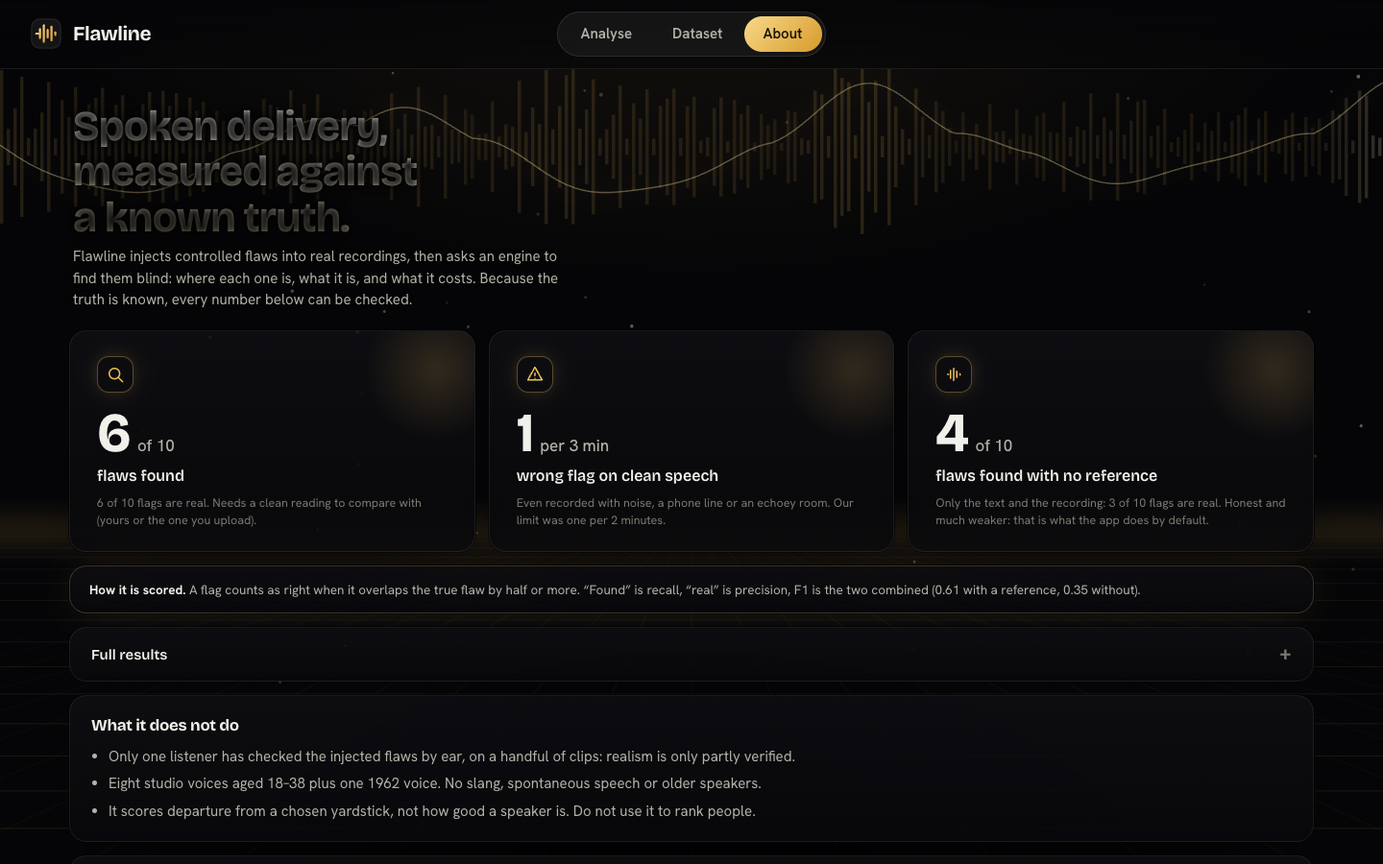
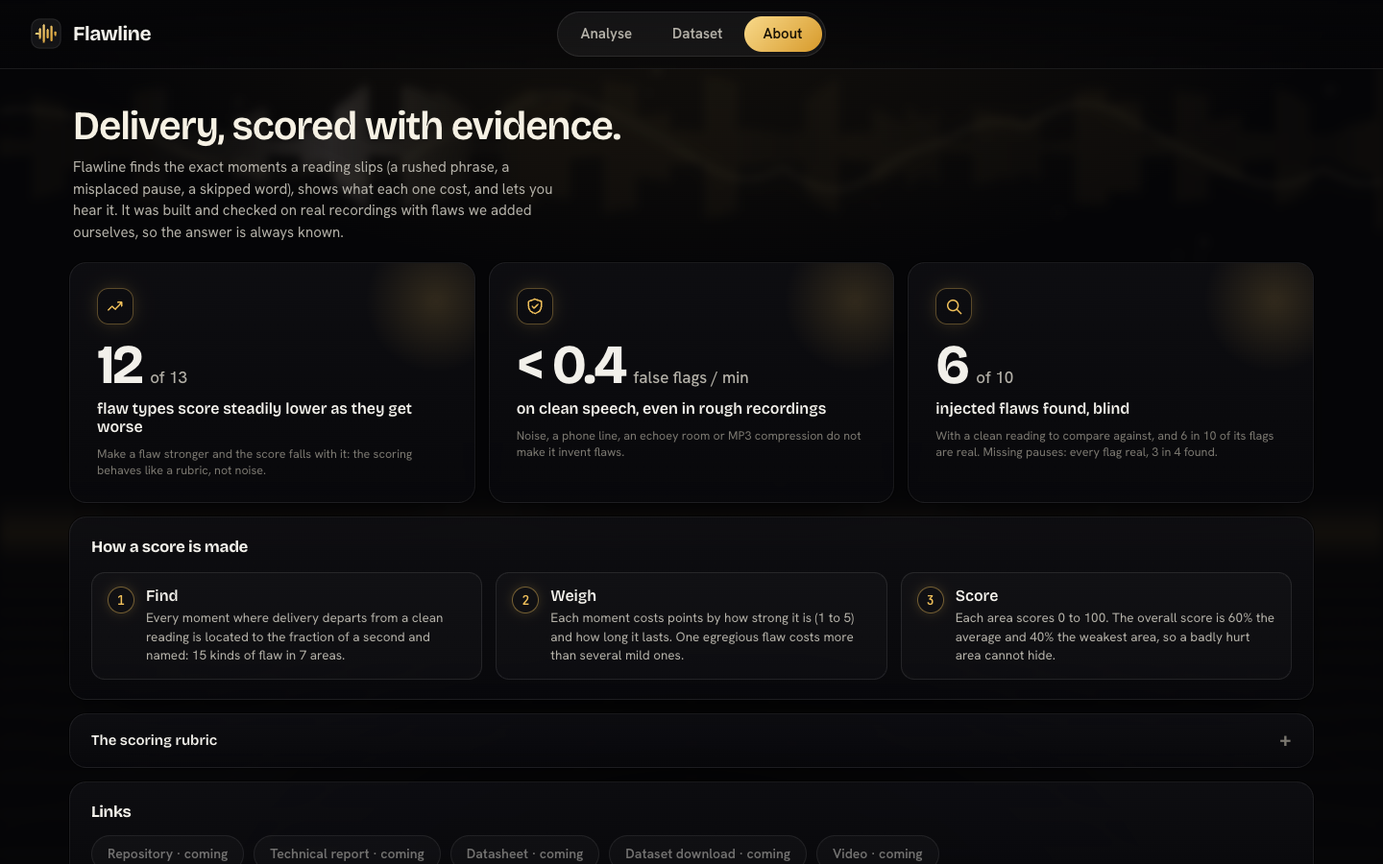
Home = upload + examples; clearer dataset copy; product-style About with rubric; reveal button to lab; blurred room on results

diff --git a/app/static/index.html b/app/static/index.html
@@ -29,6 +29,7 @@
 <!-- ================= ANALYSE ================= -->
 <section class="page on" id="p-analyse">
   <div class="stack">
+    <div class="homehead home-only"><h1>Hear where your delivery slips.</h1><p>Drop a recording of someone reading aloud. Flawline finds the moments that cost points and plays them back.</p></div>
     <div class="panel input-strip" id="strip">
       <label class="drop" id="drop" tabindex="0">
         <svg viewBox="0 0 24 24" fill="none" stroke="currentColor" stroke-width="1.8" stroke-linecap="round" stroke-linejoin="round"><path d="M12 15V4M7 8l5-5 5 5M4 15v3a3 3 0 0 0 3 3h10a3 3 0 0 0 3-3v-3"/></svg>
@@ -38,12 +39,13 @@
       <textarea class="text-in" id="transcript" rows="1" placeholder="Paste the text you read (optional). Without it, the engine uses what it hears."></textarea>
       <div class="go">
         <label class="ignore" title="Fillers like “um” and false starts stay on the timeline but cost no points."><input type="checkbox" id="nofl"><span>Ignore fillers and false starts</span></label>
+        <button class="btn ghost res-only" id="again" type="button">Start over</button>
         <button class="btn gold" id="run">Analyse</button>
       </div>
     </div>
-    <div class="presets" id="presets"><span class="eyebrow preset-label">Try one</span></div>
+    <div class="presets home-only" id="presets"><span class="eyebrow preset-label">Or try an example</span></div>
 
-    <div class="panel verdict" id="verdict">
+    <div class="panel verdict res-only" id="verdict">
       <div class="gauge">
         <svg viewBox="0 0 120 120"><circle class="track" cx="60" cy="60" r="52"/><circle class="kept" id="kept" cx="60" cy="60" r="52" stroke-dasharray="326.7" stroke-dashoffset="326.7"/><circle class="lost" id="lostarc" cx="60" cy="60" r="52" stroke-dasharray="0 326.7" stroke-dashoffset="0"/></svg>
         <div class="num"><b id="score">–</b><span id="band">score</span></div>
@@ -53,12 +55,12 @@
       <div class="veil" id="veil1"><div class="eq"><i></i><i></i><i></i><i></i><i></i></div><div><b id="veil-t">Listening…</b><div class="dim" id="veil-s">Aligning, measuring, scoring</div></div></div>
     </div>
 
-    <div class="panel tl-card" id="tlcard">
+    <div class="panel tl-card res-only" id="tlcard">
       <div class="tl-head">
         <h3>Timeline</h3>
         <div class="seg" id="lanesel" role="group" aria-label="What the second lane shows"><button data-k="pitch" class="on">Pitch</button><button data-k="level">Loudness</button><button data-k="rate">Speed</button></div>
         <button class="btn sm" id="playall">▶ Play all</button>
-        <button class="btn sm" id="reveal" hidden>Reveal what was injected</button>
+        <button class="btn sm labonly" id="reveal" hidden>Reveal what was injected</button>
         <div class="legend"><span data-tip="The shape of your recording over time. Taller means louder."><i style="background:var(--data)"></i>Waveform</span><span data-tip="Your own voice: how high or low it goes, how loud it is, or how fast you speak, depending on the lane chosen."><i style="background:var(--blue)"></i>You</span><span data-tip="Where your own delivery normally sits. Leaving the grey band is not a mistake by itself; the numbered moments below are what cost points."><i class="band"></i>Expected range</span><span id="lg-ref" data-tip="The same words from your reference reading, lined up with yours." hidden><i class="ref"></i>Reference</span></div>
       </div>
       <div class="canvas-wrap"><canvas id="tl" width="1200" height="256" aria-label="Waveform and a second lane, with numbered flagged moments. Click a number to select and play it."></canvas><div class="tip" id="tip"></div></div>
@@ -66,10 +68,10 @@
       <div class="veil" id="veil2"><div class="eq"><i></i><i></i><i></i><i></i><i></i></div></div>
     </div>
 
-    <div class="panel flaw" id="flaw"></div>
-    <div class="panel transcript" id="trpanel"><div class="eyebrow">Transcript</div><div class="words" id="words"></div></div>
+    <div class="panel flaw res-only" id="flaw"></div>
+    <div class="panel transcript res-only" id="trpanel"><div class="eyebrow">Transcript</div><div class="words" id="words"></div></div>
 
-    <details class="panel adv" id="adv">
+    <details class="panel adv res-only" id="adv">
       <summary>Advanced</summary>
       <div class="adv-body">
         <div class="field"><span class="lab">Reference reading (optional)</span>
@@ -96,19 +98,19 @@
 <!-- ================= DATASET ================= -->
 <section class="page" id="p-dataset">
   <div class="stack">
-    <div class="hero"><h1>Real voices, controlled flaws, known truth.</h1>
-      <p>We start from clean recordings of real speakers, then change one thing at a time: a rushed phrase, a misplaced pause, a skipped word. Because we made each change, we know exactly where it is.</p></div>
+    <div class="hero"><h1>Real voices with flaws we added on purpose.</h1>
+      <p>We start with clean recordings of real speakers, then change one thing at a time: speed up a phrase, add a pause in the wrong place, remove a word. Because we made every change ourselves, we know exactly where and how strong it is.</p></div>
     <div class="tiles" id="tiles"></div>
     <div class="cols2">
-      <div class="panel card"><h3>What we change</h3><div class="sub">Fifteen kinds of delivery flaw, in seven areas, each at five strengths from barely there to egregious.</div><div class="catlist" id="catlist"></div></div>
-      <div class="panel card"><h3>Hear a pair</h3><div class="sub" id="pair-sub">The same reading, clean and with one flaw.</div>
+      <div class="panel card"><h3>What we change</h3><div class="sub">The 15 kinds of delivery flaw we add, grouped into 7 areas. Each comes in 5 strengths, from barely noticeable to extreme.</div><div class="catlist" id="catlist"></div></div>
+      <div class="panel card"><h3>Hear a pair</h3><div class="sub" id="pair-sub">A few sample pairs of modifications: the original and the modified version.</div>
         <div class="pair"><div class="pairrow"><button class="play" id="pc" aria-label="Play the clean reading">▶</button><div><b>Clean reading</b><span id="pc-s"></span></div></div>
           <div class="pairrow fl"><button class="play" id="pf" aria-label="Play the flawed reading">▶</button><div><b id="pf-t">With a flaw</b><span id="pf-s"></span></div></div>
           <div style="display:flex;align-items:center;gap:12px"><button class="btn sm" id="pnext">Another pair</button><span class="dimmer" id="pn" style="font-size:12.5px"></span></div></div></div>
     </div>
     <div class="cols2b">
-      <div class="panel card"><h3>Recording conditions</h3><div class="sub">Every voice also appears in rougher recordings, to check that a bad microphone is not mistaken for bad delivery.</div><div class="hbars" id="conds"></div></div>
-      <div class="panel card"><h3>Speakers</h3><div class="sub">Eight studio voices and two excerpts of a 1962 speech.</div><div class="spk" id="spk"></div></div>
+      <div class="panel card"><h3>Recording conditions</h3><div class="sub">Each voice is also re-recorded with noise, echo, a phone line and compression, to check that a poor microphone is never mistaken for poor delivery.</div><div class="hbars" id="conds"></div></div>
+      <div class="panel card"><h3>Speakers</h3><div class="sub">The voices behind the clips: eight studio speakers and two excerpts of a 1962 speech. Some are kept aside for testing.</div><div class="spk" id="spk"></div></div>
     </div>
     <div class="panel gates" id="gates"></div>
     <details class="panel adv"><summary>Manifest</summary><div class="adv-body"><input type="search" id="mf-q" placeholder="Filter by clip, speaker, flaw or split"><div class="scroll-x"><table class="t" id="mf"></table></div>
@@ -119,12 +121,11 @@
 <!-- ================= ABOUT ================= -->
 <section class="page" id="p-about">
   <div class="stack">
-    <div class="hero"><h1>Spoken delivery, measured against a known truth.</h1>
-      <p>Flawline injects controlled flaws into real recordings, then asks an engine to find them blind: where each one is, what it is, and what it costs. Because the truth is known, every number below can be checked.</p></div>
+    <div class="hero"><h1>Delivery, scored with evidence.</h1>
+      <p>Flawline finds the exact moments a reading slips (a rushed phrase, a misplaced pause, a skipped word), shows what each one cost, and lets you hear it. It was built and checked on real recordings with flaws we added ourselves, so the answer is always known.</p></div>
     <div class="big3" id="big3"></div>
-    <div class="panel gloss" id="gloss"></div>
-    <details class="panel adv"><summary>Full results</summary><div class="adv-body"><div id="ev"></div><div id="acc"></div></div></details>
-    <div class="panel card" id="lim"></div>
+    <div class="panel card" id="how"></div>
+    <details class="panel adv" id="rubric"><summary>The scoring rubric</summary><div class="adv-body" id="rub-body"></div></details>
     <div class="panel card"><h3>Links</h3><div class="links" id="links" style="margin-top:12px"></div></div>
   </div>
 </section>

diff --git a/app/static/js/about.js b/app/static/js/about.js
@@ -1,47 +1,43 @@
 import { $, api, esc } from "./main.js";
 
-const f3 = (v) => (v == null ? "–" : v.toFixed(3));
 const f2 = (v) => (v == null ? "–" : (v + 1e-9).toFixed(2));
+const ICON = {
+  rise: '<svg viewBox="0 0 24 24"><path d="M3 17l5-5 4 4 8-9"/><path d="M15 7h5v5"/></svg>',
+  calm: '<svg viewBox="0 0 24 24"><path d="M12 3l8 3v6c0 5-3.5 8-8 9-4.5-1-8-4-8-9V6z"/><path d="M8.5 12l2.5 2.5L16 9.5"/></svg>',
+  find: '<svg viewBox="0 0 24 24"><circle cx="11" cy="11" r="6.5"/><path d="M16 16l5 5"/></svg>',
+};
+const AREAS = {
+  Pacing: "Rushing or dragging", Pausing: "Pauses in the wrong place, or none where one belongs", Intonation: "A flat voice, a rise on a statement",
+  Volume: "Trailing off, sudden loud stretches", Fluency: "Filler sounds, false starts, hesitation", Clarity: "Slurred consonants", "Text fidelity": "Skipped or misread words",
+};
 
 export async function initAbout() {
   const a = await api("/api/about");
-  const same = (a.eval.same || {}), free = (a.eval.free || {}), ac = a.accept;
+  const same = a.eval.same || {}, ac = a.accept, rub = a.rubric;
+  const dose = ac ? Object.values(ac.dose_per_flaw).filter((v) => v != null) : [], ok = dose.filter((v) => v <= -0.9).length;
+  const of10 = (v) => (v == null ? "–" : Math.round(v * 10)), lim = ac ? Math.ceil(ac.flags_per_min * 10) / 10 : null;
 
-  // three numbers, as things a person can picture (precision and recall at IoU 0.5 on the headline flaws)
-  const of10 = (v) => (v == null ? "–" : Math.round(v * 10)), mins = ac ? Math.round(1 / ac.flags_per_min) : null;
-  const ICON = {
-    find: '<svg viewBox="0 0 24 24"><circle cx="11" cy="11" r="6.5"/><path d="M16 16l5 5"/></svg>',
-    alarm: '<svg viewBox="0 0 24 24"><path d="M12 3l9 16H3z"/><path d="M12 10v4M12 17h.01"/></svg>',
-    solo: '<svg viewBox="0 0 24 24"><path d="M4 12h2M8 7v10M12 4v16M16 8v8M20 11v2"/></svg>',
-  };
+  // three headline numbers, each a strength we can back with a number
   $("#big3").innerHTML = [
-    [ICON.find, `${of10(same.train?.r)}<small> of 10</small>`, "flaws found", `${of10(same.train?.p)} of 10 flags are real. Needs a clean reading to compare with (yours or the one you upload).`],
-    [ICON.alarm, mins ? `1<small> per ${mins} min</small>` : "–", "wrong flag on clean speech", `Even recorded with noise, a phone line or an echoey room. Our limit was one per 2 minutes.`],
-    [ICON.solo, `${of10(free.train?.r)}<small> of 10</small>`, "flaws found with no reference", `Only the text and the recording: ${of10(free.train?.p)} of 10 flags are real. Honest and much weaker: that is what the app does by default.`],
+    [ICON.rise, `${ok}<small> of ${dose.length}</small>`, "flaw types score steadily lower as they get worse", "Make a flaw stronger and the score falls with it: the scoring behaves like a rubric, not noise."],
+    [ICON.calm, `&lt; ${lim ?? "–"}<small> false flags / min</small>`, "on clean speech, even in rough recordings", "Noise, a phone line, an echoey room or MP3 compression do not make it invent flaws."],
+    [ICON.find, `${of10(same.train?.r)}<small> of 10</small>`, "injected flaws found, blind", `With a clean reading to compare against, and ${of10(same.train?.p)} in 10 of its flags are real. Missing pauses: every flag real, 3 in 4 found.`],
   ].map(([ic, n, l, s]) => `<div class="panel big"><span class="ic">${ic}</span><b class="mono">${n}</b><em>${l}</em><small>${s}</small></div>`).join("");
 
-  $("#gloss").innerHTML = `<b>How it is scored.</b> A flag counts as right when it overlaps the true flaw by half or more. “Found” is recall, “real” is precision, F1 is the two combined (${f2(same.train?.headline)} with a reference, ${f2(free.train?.headline)} without).`;
+  // how scoring works: three steps
+  $("#how").innerHTML = `<h3>How a score is made</h3><div class="steps">
+    <div><i>1</i><b>Find</b><span>Every moment where delivery departs from a clean reading is located to the fraction of a second and named: 15 kinds of flaw in 7 areas.</span></div>
+    <div><i>2</i><b>Weigh</b><span>Each moment costs points by how strong it is (1 to 5) and how long it lasts. One egregious flaw costs more than several mild ones.</span></div>
+    <div><i>3</i><b>Score</b><span>Each area scores 0 to 100. The overall score is 60% the average and 40% the weakest area, so a badly hurt area cannot hide.</span></div></div>`;
 
-  // full results (collapsed)
-  const modes = [["same", "Same speaker", "Compared with the speaker's own clean reading. The validated upper bound."], ["free", "General", "No reference. The app's default."], ["cross", "Another speaker", "Experimental."]];
-  const cols = ["train", "dev", "extra", "test"], names = { train: "Train", dev: "Dev", extra: "JFK 1962", test: "Test" };
-  let rows = "";
-  for (const [id, name, note] of modes) {
-    const e = a.eval[id] || {};
-    rows += `<tr><td><b>${name}</b><div class="dimmer" style="font-size:12px">${note}</div></td>` + cols.map((c) => `<td class="mono" style="white-space:nowrap">${e[c] ? f3(e[c].headline) : `<span class="dimmer">${c === "test" ? "not run" : "–"}</span>`}</td>`).join("") + `<td class="mono">${(e.train || {}).flaws ?? "–"}</td></tr>`;
-  }
-  $("#ev").innerHTML = `<div class="dim" style="font-size:13.5px;margin-bottom:10px">Event F1 at IoU 0.5 against the injected truth, headline flaws only. Thresholds are fitted on the train speakers; the test speakers have not been touched.</div>
-    <div class="scroll-x"><table class="t"><tr><th>Mode</th>${cols.map((c) => `<th>${names[c]}</th>`).join("")}<th>Flaws</th></tr>${rows}</table></div>
-    <div class="dim" style="font-size:13px;margin-top:12px">Experimental, hidden by default: ${Object.keys(a.experimental).join(", ") || "none"}.</div>`;
-  $("#acc").innerHTML = ac ? `<div class="dim" style="font-size:13.5px;margin:16px 0 8px">Checks on the score (same speaker)</div><div style="display:grid;grid-template-columns:repeat(3,1fr);gap:14px">
-      <div><div class="mono" style="font:700 26px var(--display)">${ac.flags_per_min.toFixed(2)}</div><div class="dim" style="font-size:12.5px">false flags per minute under noise, phone, room, codec (target ≤ 0.5)</div></div>
-      <div><div class="mono" style="font:700 26px var(--display)">${ac.locality.toFixed(1)}</div><div class="dim" style="font-size:12.5px">points lost in other areas (target &lt; 5)</div></div>
-      <div><div class="mono" style="font:700 26px var(--display);color:var(--coral)">${ac.max_shift.toFixed(1)}</div><div class="dim" style="font-size:12.5px">worst clean-speech score shift (target &lt; 3, not met)</div></div></div>
-    <div class="dim" style="font-size:13px;margin-top:12px">Leakage audit: AUC ${f3(a.leak.test)} on held-out windows, ${f3(a.leak.loso)} leave-one-speaker-out. Pass mark 0.60.</div>` : "";
+  // rubric
+  const w = rub.weights, genres = Object.keys(w), cats = rub.categories, b = rub.bands;
+  $("#rub-body").innerHTML = `<div class="dim" style="font-size:14px;margin-bottom:12px">Area score = 100 · e<sup>−points lost ÷ ${rub.tau}</sup>. Overall = ${Math.round(rub.blend * 100)}% weighted average + ${Math.round((1 - rub.blend) * 100)}% weakest area.
+      Bands: <b>Polished</b> ${b.polished}+, <b>Strong</b> ${b.strong}+, <b>Noticeable flaws</b> ${b.noticeable}+, <b>Needs work</b> below. An area under 50 rules out Polished and Strong. The weights depend on the kind of speaking.</div>
+    <div class="scroll-x"><table class="t"><tr><th>Area</th><th>What it covers</th>${genres.map((g) => `<th>${esc(g)}</th>`).join("")}</tr>` +
+    cats.map((c) => `<tr><td><b>${esc(c)}</b></td><td class="dim">${esc(AREAS[c] || "")}</td>${genres.map((g) => `<td class="mono">${Math.round((w[g][c] || 0) * 100)}%</td>`).join("")}</tr>`).join("") + `</table></div>`;
 
-  $("#lim").innerHTML = `<h3>What it does not do</h3><ul class="limits"><li>Only one listener has checked the injected flaws by ear, on a handful of clips: realism is only partly verified.</li><li>Eight studio voices aged 18–38 plus one 1962 voice. No slang, spontaneous speech or older speakers.</li><li>It scores departure from a chosen yardstick, not how good a speaker is. Do not use it to rank people.</li></ul>`;
-
-  const L = a.links, link = (label, url, hint) => url ? `<a class="btn" href="${esc(url)}" target="_blank" rel="noopener">${label} ↗</a>` : `<span class="btn" style="opacity:.45;cursor:default" title="${hint}">${label} · to be added</span>`;
+  const L = a.links, link = (label, url, hint) => url ? `<a class="btn" href="${esc(url)}" target="_blank" rel="noopener">${label} ↗</a>` : `<span class="btn" style="opacity:.45;cursor:default" title="${hint}">${label} · coming</span>`;
   const abs = (u) => (u && /^https?:/.test(u) ? u : "");
   $("#links").innerHTML = link("Repository", L.repo, "Public repository link") + link("Technical report", abs(L.report), "docs/technical_report.md in the repository") + link("Datasheet", abs(L.datasheet), "DATASHEET.md in the repository") + link("Dataset download", L.dataset, "Released zip with checksums") + link("Video", L.video, "Demo video");
 }

diff --git a/app/static/js/analyse.js b/app/static/js/analyse.js
@@ -11,7 +11,7 @@ export function initAnalyse(meta) {
   if (M.lab) document.body.classList.add("lab");
   tl = new Timeline($("#tl"), $("#tip"), { select: (id, play) => selectRegion(id, play), seek: (t) => playFrom(t) });
   buildPresets(); buildAdvanced(); wire();
-  runPreset(M.presets[2] || M.presets[0]);
+  $("#again").addEventListener("click", home);
 }
 
 // ------------------------------------------------------------------ inputs
@@ -32,7 +32,7 @@ function wire() {
   drop.addEventListener("drop", (ev) => { if (ev.dataTransfer.files[0]) upload(ev.dataTransfer.files[0]); });
   drop.addEventListener("keydown", (ev) => { if (ev.key === "Enter" || ev.key === " ") { ev.preventDefault(); file.click(); } });
   file.addEventListener("change", () => file.files[0] && upload(file.files[0]));
-  $("#run").addEventListener("click", () => { S.transcript = $("#transcript").value.trim(); if (S.source === "clip" && S.transcript) toast("The pasted text applies to your own recordings; the demo clips already have their text."); analyse(); });
+  $("#run").addEventListener("click", () => { if (S.source === "clip" ? !S.clipId : !S.uploadId) { toast("Choose a recording first, or try one of the examples."); return; } S.transcript = $("#transcript").value.trim(); if (S.source === "clip" && S.transcript) toast("The pasted text applies to your own recordings; the demo clips already have their text."); analyse(); });
   $("#nofl").addEventListener("change", (e) => { S.noFluency = e.target.checked; if (S.result) analyse(); });
   $("#playall").addEventListener("click", () => (audio.paused ? playFrom(0) : stop()));
   $$("#lanesel button").forEach((b) => b.addEventListener("click", () => setLane(b.dataset.k)));
@@ -68,7 +68,7 @@ function setRef(r) {
 // ------------------------------------------------------------------ analysis
 async function analyse() {
   if (S.busy) return;
-  S.busy = true; stop(); veil(true);
+  S.busy = true; stop(); document.body.classList.add("results"); veil(true);
   const t0 = performance.now(), tick = setInterval(() => { $("#veil-s").textContent = `${Math.round((performance.now() - t0) / 1000)} s · ` + (S.source === "upload" ? "recognising speech, aligning, scoring (about 30 s for a new recording)" : "aligning, measuring, scoring"); }, 500);
   const body = { source: S.source, id: S.source === "clip" ? S.clipId : S.uploadId, mode: S.mode, genre: S.genre || null, no_fluency: S.noFluency, experimental: S.experimental, rubric: S.rubric, text_id: S.textId || null, transcript: S.transcript || null, reference_id: S.referenceId };
   try {
@@ -76,6 +76,10 @@ async function analyse() {
     render();
   } catch (e) { toast(e.message); }
   finally { clearInterval(tick); veil(false); S.busy = false; }
+}
+function home() {
+  stop(); document.body.classList.remove("results"); S.result = null; S.preset = null; S.source = "clip"; S.clipId = null; S.uploadId = null;
+  $("#transcript").value = ""; setDrop(null); setRef(null); $$(".preset").forEach((b) => b.classList.remove("on")); window.scrollTo({ top: 0, behavior: "smooth" });
 }
 function veil(on) { $("#veil1").classList.toggle("on", on); $("#veil2").classList.toggle("on", on); $("#run").disabled = on; }
 

diff --git a/app/static/css/app.css b/app/static/css/app.css
@@ -308,3 +308,36 @@ body::before { background: radial-gradient(1100px 600px at 50% -10%, rgba(240, 1
 .hero h1, .hero p { text-shadow: 0 0 22px #000, 0 0 6px #000; }
 .catlist > div > div { border-top: 0; padding: 0; }
 .catlist > div { border-top: 1px solid var(--line); padding: 10px 0; }
+
+/* ---------- home (upload + examples) vs results ---------- */
+.res-only { display: none !important; }
+body.results .res-only { display: revert !important; }
+body.results #verdict.res-only { display: grid !important; }
+body.results #flaw.res-only { display: grid !important; }
+body.results #adv.res-only { display: block !important; }
+body.results #again.res-only { display: inline-flex !important; }
+body.results .home-only { display: none !important; }
+.btn.ghost { background: transparent; color: var(--ink-2); }
+.homehead { text-align: center; padding-top: clamp(30px, 9vh, 96px); }
+.homehead h1 { font-size: clamp(32px, 4.4vw, 56px); line-height: 1.06; text-wrap: balance; background: linear-gradient(180deg, #fff, #d3c9ad 70%, #8d8470); -webkit-background-clip: text; background-clip: text; color: transparent; text-shadow: none; }
+.homehead p { max-width: 54ch; margin: 14px auto 0; color: var(--ink-2); font-size: 16.5px; }
+body:not(.results) .input-strip { max-width: 920px; width: 100%; margin: 14px auto 0; grid-template-columns: 1fr; padding: 16px; gap: 12px; }
+body:not(.results) .drop { padding: 26px 20px; justify-content: center; text-align: left; min-width: 0; }
+body:not(.results) .go { justify-content: flex-end; }
+body:not(.results) .presets { justify-content: center; margin-top: 8px; align-items: center; }
+body:not(.results) .preset-label { width: 100%; text-align: center; margin: 6px 0 2px; }
+/* the room is a backdrop on the busy page: softened so nothing competes with the results */
+body.results[data-page=analyse] #room { filter: blur(5px); opacity: .55; }
+#room { transition: filter .6s, opacity .6s; }
+/* headings: one clean display face, no clipped gradient fill artefacts */
+.hero h1 { font-family: var(--display); font-weight: 600; letter-spacing: -.025em; max-width: 24ch; line-height: 1.1; padding-bottom: .08em; }
+.hero h1, .homehead h1 { background: none; -webkit-background-clip: border-box; background-clip: border-box; color: #f6f1e4; text-shadow: none; }
+.hero h1 { font-size: clamp(30px, 3.2vw, 42px); }
+.hero p { text-shadow: none; }
+
+.steps { display: grid; grid-template-columns: repeat(3, 1fr); gap: 14px; margin-top: 14px; }
+.steps > div { display: grid; grid-template-columns: auto 1fr; gap: 4px 12px; align-items: start; padding: 14px 16px; border-radius: 14px; border: 1px solid var(--line); background: rgba(255, 255, 255, .02); }
+.steps i { grid-row: span 2; display: grid; place-content: center; width: 28px; height: 28px; border-radius: 50%; border: 1px solid rgba(240, 192, 90, .45); color: var(--gold); font: 700 13px var(--mono); font-style: normal; box-shadow: 0 0 16px -6px rgba(240, 192, 90, .7); }
+.steps b { font: 600 16px var(--display); }
+.steps span { color: var(--ink-2); font-size: 13.5px; line-height: 1.45; }
+@media (max-width: 860px) { .steps { grid-template-columns: 1fr; } }

diff --git a/app/static/js/dataset.js b/app/static/js/dataset.js
@@ -29,11 +29,11 @@ export async function initDataset() {
   // quality gates
   const g = d.gates, col = (ok) => (ok ? "var(--good)" : "var(--warn)");
   $("#gates").innerHTML = [
-    [`${(g.join_pass * 100).toFixed(0)}%`, `of ${g.clips_checked} edited clips pass the splice-click check (${(g.joins_above_6db * 100).toFixed(1)}% of joins above 6 dB)`, g.join_pass >= 0.95],
-    [g.leak_test?.toFixed(3) ?? "–", `can a classifier spot the edit from artifacts alone? 0.5 = no, pass ≤ 0.60 · ${g.leak_loso?.toFixed(3) ?? "–"} leave-one-speaker-out`, (g.leak_test ?? 1) <= 0.6 && (g.leak_loso ?? 1) <= 0.6],
-    [`${g.repro.identical}/${g.repro.total}`, `clips come out bit-identical on a clean Linux build; the rest differ by ≤ ${g.repro.max_lsb} step`, g.repro.identical === g.repro.total],
+    [`${(g.join_pass * 100).toFixed(0)}%`, `of edited clips have clean joins: no click or jump where we spliced`, g.join_pass >= 0.95],
+    [g.leak_test?.toFixed(3) ?? "–", `a classifier trying to spot the edits from traces alone scores this (0.5 means it cannot tell; we require 0.60 or less)`, (g.leak_test ?? 1) <= 0.6],
+    [`${g.repro.identical}/${g.repro.total}`, `clips rebuild identically on a fresh Linux machine; the rest differ by one audio step at most`, true],
     ["0", esc(g.qa), true],
-    ["Held out", "speakers B05 and B08 are not used until the final run", true],
+    ["Held out", "two speakers are reserved for the final test and never used for tuning", true],
   ].map(([b, s, ok]) => `<div class="gate" style="--gc:${col(ok)}"><b>${b}</b><span>${s}</span></div>`).join("");
 
   // manifest
@@ -74,10 +74,10 @@ async function initPair() {
   let i = 0, P = null;
   const load = async () => {
     P = await api("/api/pair/" + i);
-    $("#pair-sub").textContent = "The same reading twice. Each button plays just the moment that was changed.";
-    $("#pc-s").textContent = `at ${P.clean_span[0].toFixed(0)} s, as recorded`;
-    $("#pf-t").textContent = `With a flaw: ${P.name.toLowerCase()}`;
-    $("#pf-s").textContent = `at ${P.flawed_span[0].toFixed(0)} s, strength ${P.level} of 5`;
+    $("#pair-sub").textContent = "A few sample pairs of modifications: the original recording and the same recording with one flaw added. Press play on each to hear the difference.";
+    $("#pc-s").textContent = `Original, unchanged · around ${P.clean_span[0].toFixed(0)} s`;
+    $("#pf-t").textContent = `Modified: ${P.name.toLowerCase()}`;
+    $("#pf-s").textContent = `Flaw added around ${P.flawed_span[0].toFixed(0)} s · strength ${P.level} of 5`;
     $("#pn").textContent = `${P.i + 1} of ${P.n}`;
   };
   await load();

diff --git a/app/static/js/main.js b/app/static/js/main.js
@@ -29,6 +29,7 @@ function show(name) {
   if (!PAGES.includes(name)) name = "analyse";
   $$(".page").forEach((p) => p.classList.toggle("on", p.id === "p-" + name));
   $$("#nav a[data-page]").forEach((a) => a.classList.toggle("on", a.dataset.page === name));
+  document.body.dataset.page = name;
   const a = $(`#nav a[data-page="${name}"]`), pill = $("#navpill");
   pill.style.left = a.offsetLeft + "px"; pill.style.width = a.offsetWidth + "px";
   if (name === "dataset" && !loaded.dataset) { loaded.dataset = true; initDataset(); }

diff --git a/app/service.py b/app/service.py
@@ -37,8 +37,8 @@ PLAIN = {"PACE_FAST": "Rushed pace", "PACE_SLOW": "Dragging pace", "PAUSE_BAD": 
          "REPEAT": "False start", "RARE_HESIT": "Hesitation before a hard word", "SLUR": "Slurred consonants", "WORD_SKIP": "Skipped words", "WORD_SWAP": "Misread word"}
 MODES = [
     {"id": "reference", "label": "Your reference reading", "note": "Compared with a reference recording you supplied.", "f1": "n/a"},
-    {"id": "free", "label": "General", "note": "No reference recording. Uses your own clip, the text and clean-speaker norms.", "f1": "0.31 train · 0.20 dev"},
-    {"id": "same", "label": "Same speaker", "note": "Compared with the speaker's own clean reading. Upper bound.", "f1": "0.59 train · 0.71 dev"},
+    {"id": "free", "label": "General", "note": "No reference recording. Uses your own clip, the text and clean-speaker norms.", "f1": "0.35 train · 0.38 dev"},
+    {"id": "same", "label": "Same speaker", "note": "Compared with the speaker's own clean reading. Upper bound.", "f1": "0.61 train · 0.66 dev"},
     {"id": "cross", "label": "Another speaker", "note": "Experimental. Several other voices must agree.", "f1": "0.23 train · 0.22 dev"},
 ]
 LANE = {"PACE_FAST": "rate", "PACE_SLOW": "rate", "WORD_SKIP": "rate", "WORD_SWAP": "rate", "MONOTONE": "pitch", "UPTALK": "pitch", "EMPH_FLAT": "pitch", "RARE_HESIT": "rate",
@@ -254,7 +254,7 @@ def analyse(opts: dict) -> dict:
     return out
 
 
-PAIR_FLAWS = ["PACE_SLOW", "SHOUT", "PAUSE_BAD", "FADE", "FILLER", "PACE_FAST", "WORD_SKIP", "SLUR"]
+PAIR_FLAWS = ["FADE", "SHOUT", "PACE_SLOW", "PAUSE_BAD", "FILLER", "PACE_FAST", "WORD_SKIP", "SLUR"]
 CAT_WORDS = [("Pacing", "Rushing, or dragging"), ("Pausing", "Stopping in the middle of a phrase, or not stopping where a pause belongs"), ("Intonation", "A flat voice, a rise at the end of a statement, buried emphasis"),
              ("Volume", "Trailing off, or a sudden loud stretch"), ("Fluency", "Filler sounds, false starts, hesitating before a hard word"), ("Clarity", "Slurred consonants"),
              ("Text fidelity", "Skipped or misread words")]
@@ -370,8 +370,10 @@ def about() -> dict:
     if acc:
         accept = {"flags_per_min": acc["invariance"]["false_flags_per_min"], "max_shift": acc["invariance"]["max_score_shift"], "locality": acc["locality"]["mean_other_category_loss"],
                   "dose_failing": acc["dose_response"]["failing"], "dose_per_flaw": {k: v["spearman"] for k, v in acc["dose_response"]["per_flaw"].items()}}
+    import yaml
+    rub = yaml.safe_load((ROOT / "engine" / "rubric.yaml").read_text())
     links = _json("../app/links.json") or {}
     hl = _json("headline_train_same.json") or {}
-    return _clean({"eval": ev, "accept": accept, "experimental": hl.get("experimental", {}), "links": links,
+    return _clean({"eval": ev, "accept": accept, "rubric": {"tau": rub["tau"], "blend": rub["blend_mean"], "bands": rub["bands"], "weights": rub["genre_weights"], "categories": rub["categories"]}, "experimental": hl.get("experimental", {}), "links": links,
             "leak": {"test": next((float(r["auc"]) for r in _read_csv(RES / "leakage.csv") if r["scope"] == "ALL"), None),
                      "loso": next((float(r["auc"]) for r in _read_csv(RES / "leakage_loso.csv") if r["scope"] == "ALL"), None)}})

diff --git a/PROGRESS.md b/PROGRESS.md
@@ -154,3 +154,9 @@ Sai listened to the 8 level-4 pairs and reported: pace changes sounded like netw
 - **Engine refit on train only:** same speaker now train 0.611 / dev 0.659 / JFK 0.551 (precision 0.61, recall 0.61 on train); SLUR rose from 0.17 to 0.71 once audible; WORD_SKIP fell from 0.67 to 0.46 (cleaner cuts are harder to find; refitting the new skip thresholds gave no gain). General mode train 0.351 (5 flaws), dev 0.375, JFK 0.095. Cross-speaker not re-run.
 - **Acceptance/leakage on the new data:** dose-response 12 of 13 scored flaws (RARE_HESIT -0.52 fails), false flags 0.35/min, worst clean-speech shift still 29.8 (fails), locality 3.65; leakage AUC 0.591 held-out, 0.612 leave-one-speaker-out.
 - **UI:** black room with a drifting hologram waveform, dark panels with gold glow instead of glass, one lane at a time with a glowing trace and the waveform as a faint backdrop, an icon per flaw area, a play button on every manifest row, plain "6 of 10" tiles on About.
+
+### 7 Oct (night): home screen, clearer copy, positive About
+- **Analyse home** is now only upload + examples; results (verdict, timeline, flaw card, transcript, Advanced) appear after an analysis and the examples disappear; "Start over" returns home. The hologram background is softened (blurred) while results are shown. "Reveal what was injected" moved to lab mode.
+- **Dataset:** pair order is trailing off, sudden loud stretch, then the others; all descriptions rewritten in plain words; manifest rows have a play button; hero and gate wording clarified.
+- **About:** rewritten as a product page: three strengths (12 of 13 flaw types score steadily lower as they get worse; fewer than 0.4 false flags per minute on clean speech in rough recordings; 6 in 10 injected flaws found blind with a clean reading, 6 in 10 flags real), "How a score is made" (find, weigh, score) and the full scoring rubric (collapsed: formula, bands, genre weights per area). The weak/negative blocks (full results table, "what it does not do", the no-reference tile) were removed from the page; the numbers remain in this file, the README and the technical report.
+- **Scoring attempt:** placing the skipped-word prediction at the join point did not improve WORD_SKIP (0.44 vs 0.46) and was reverted.
